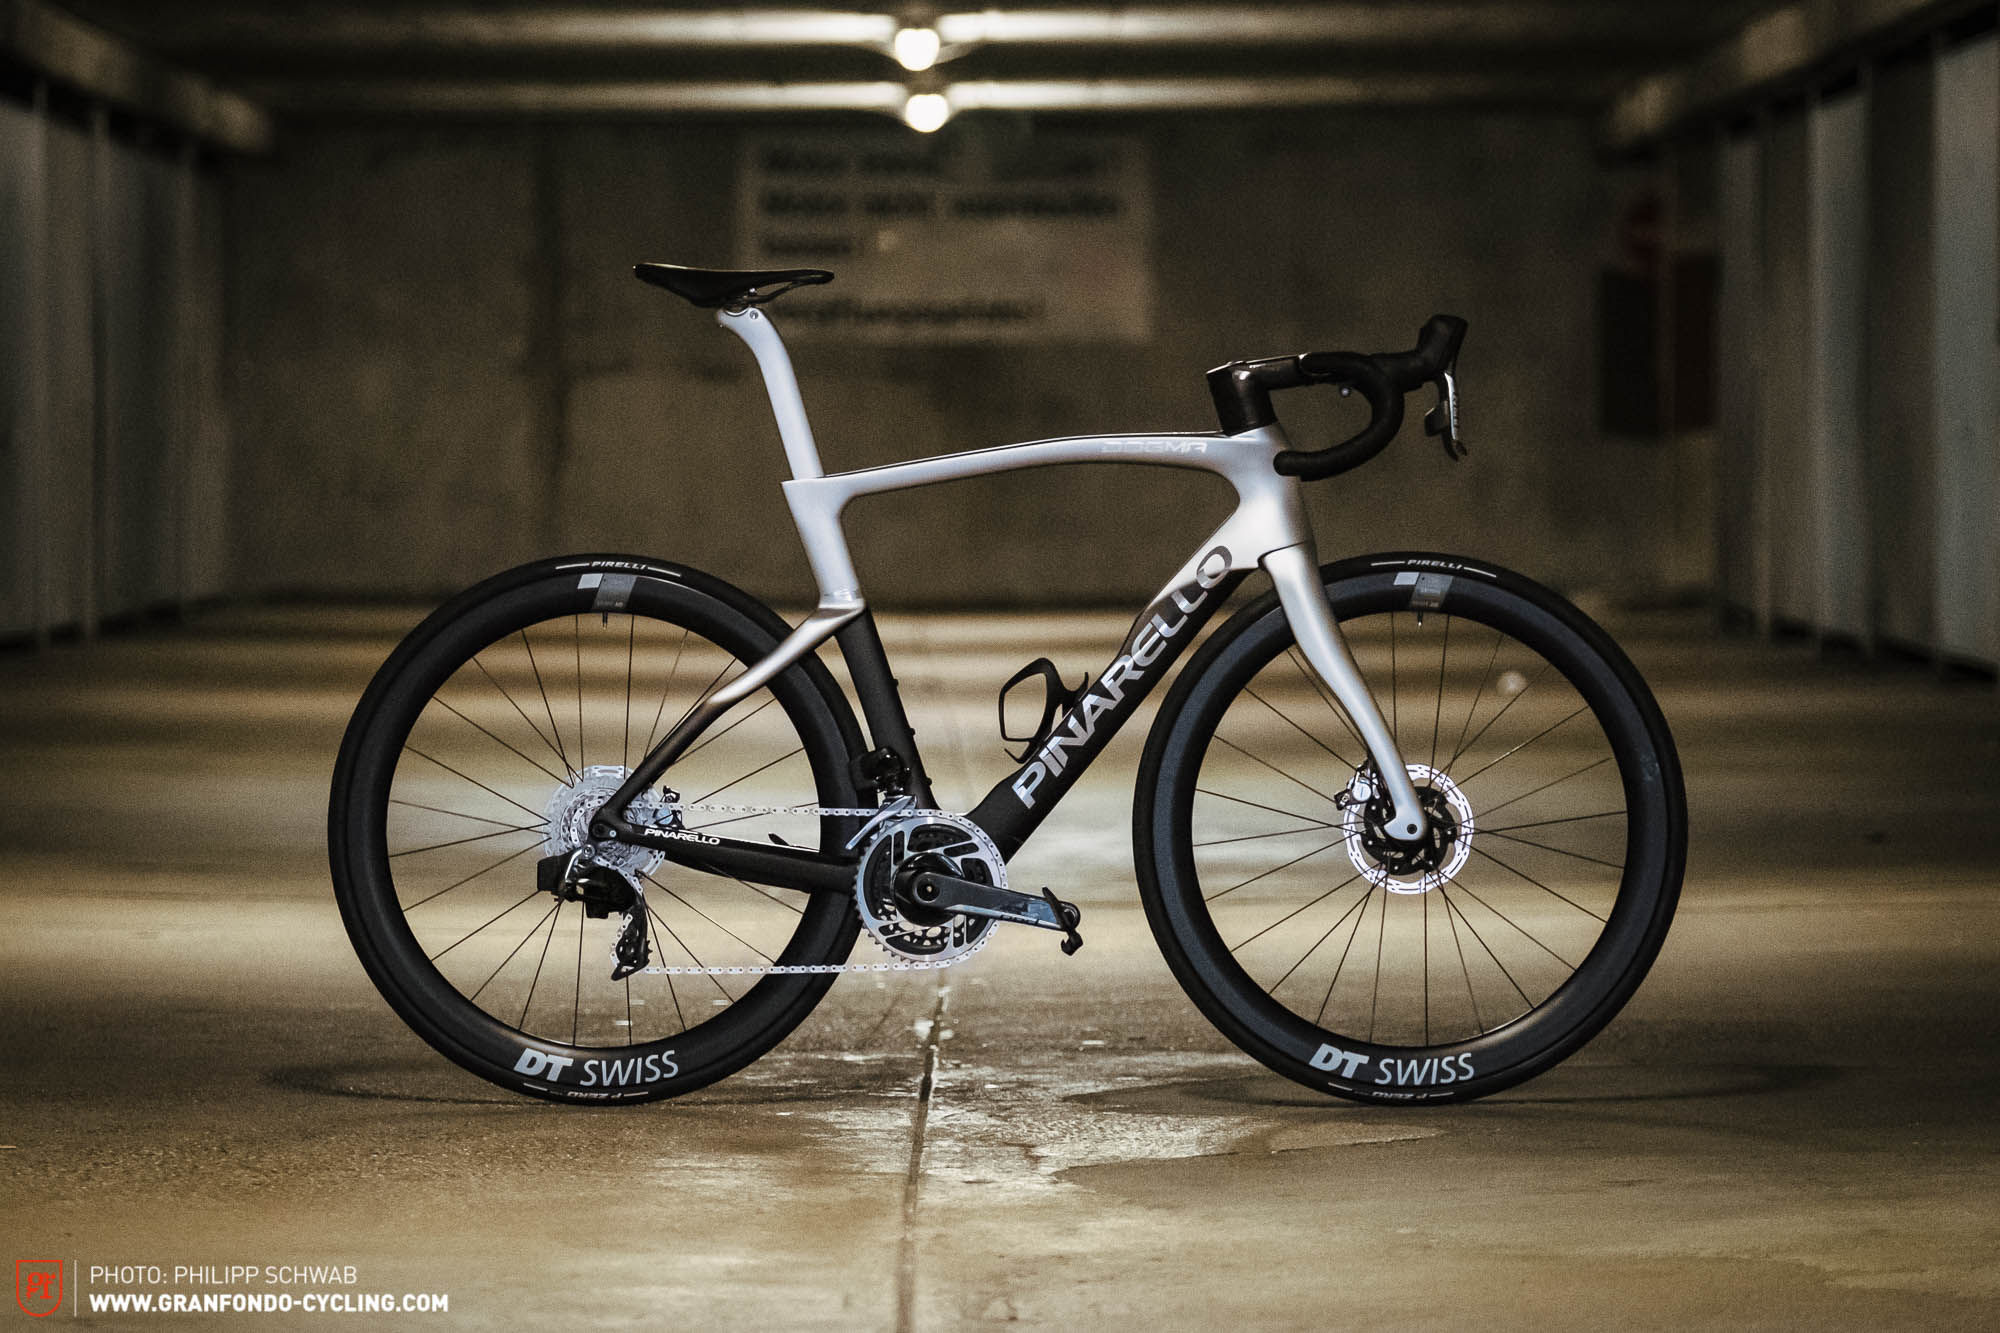
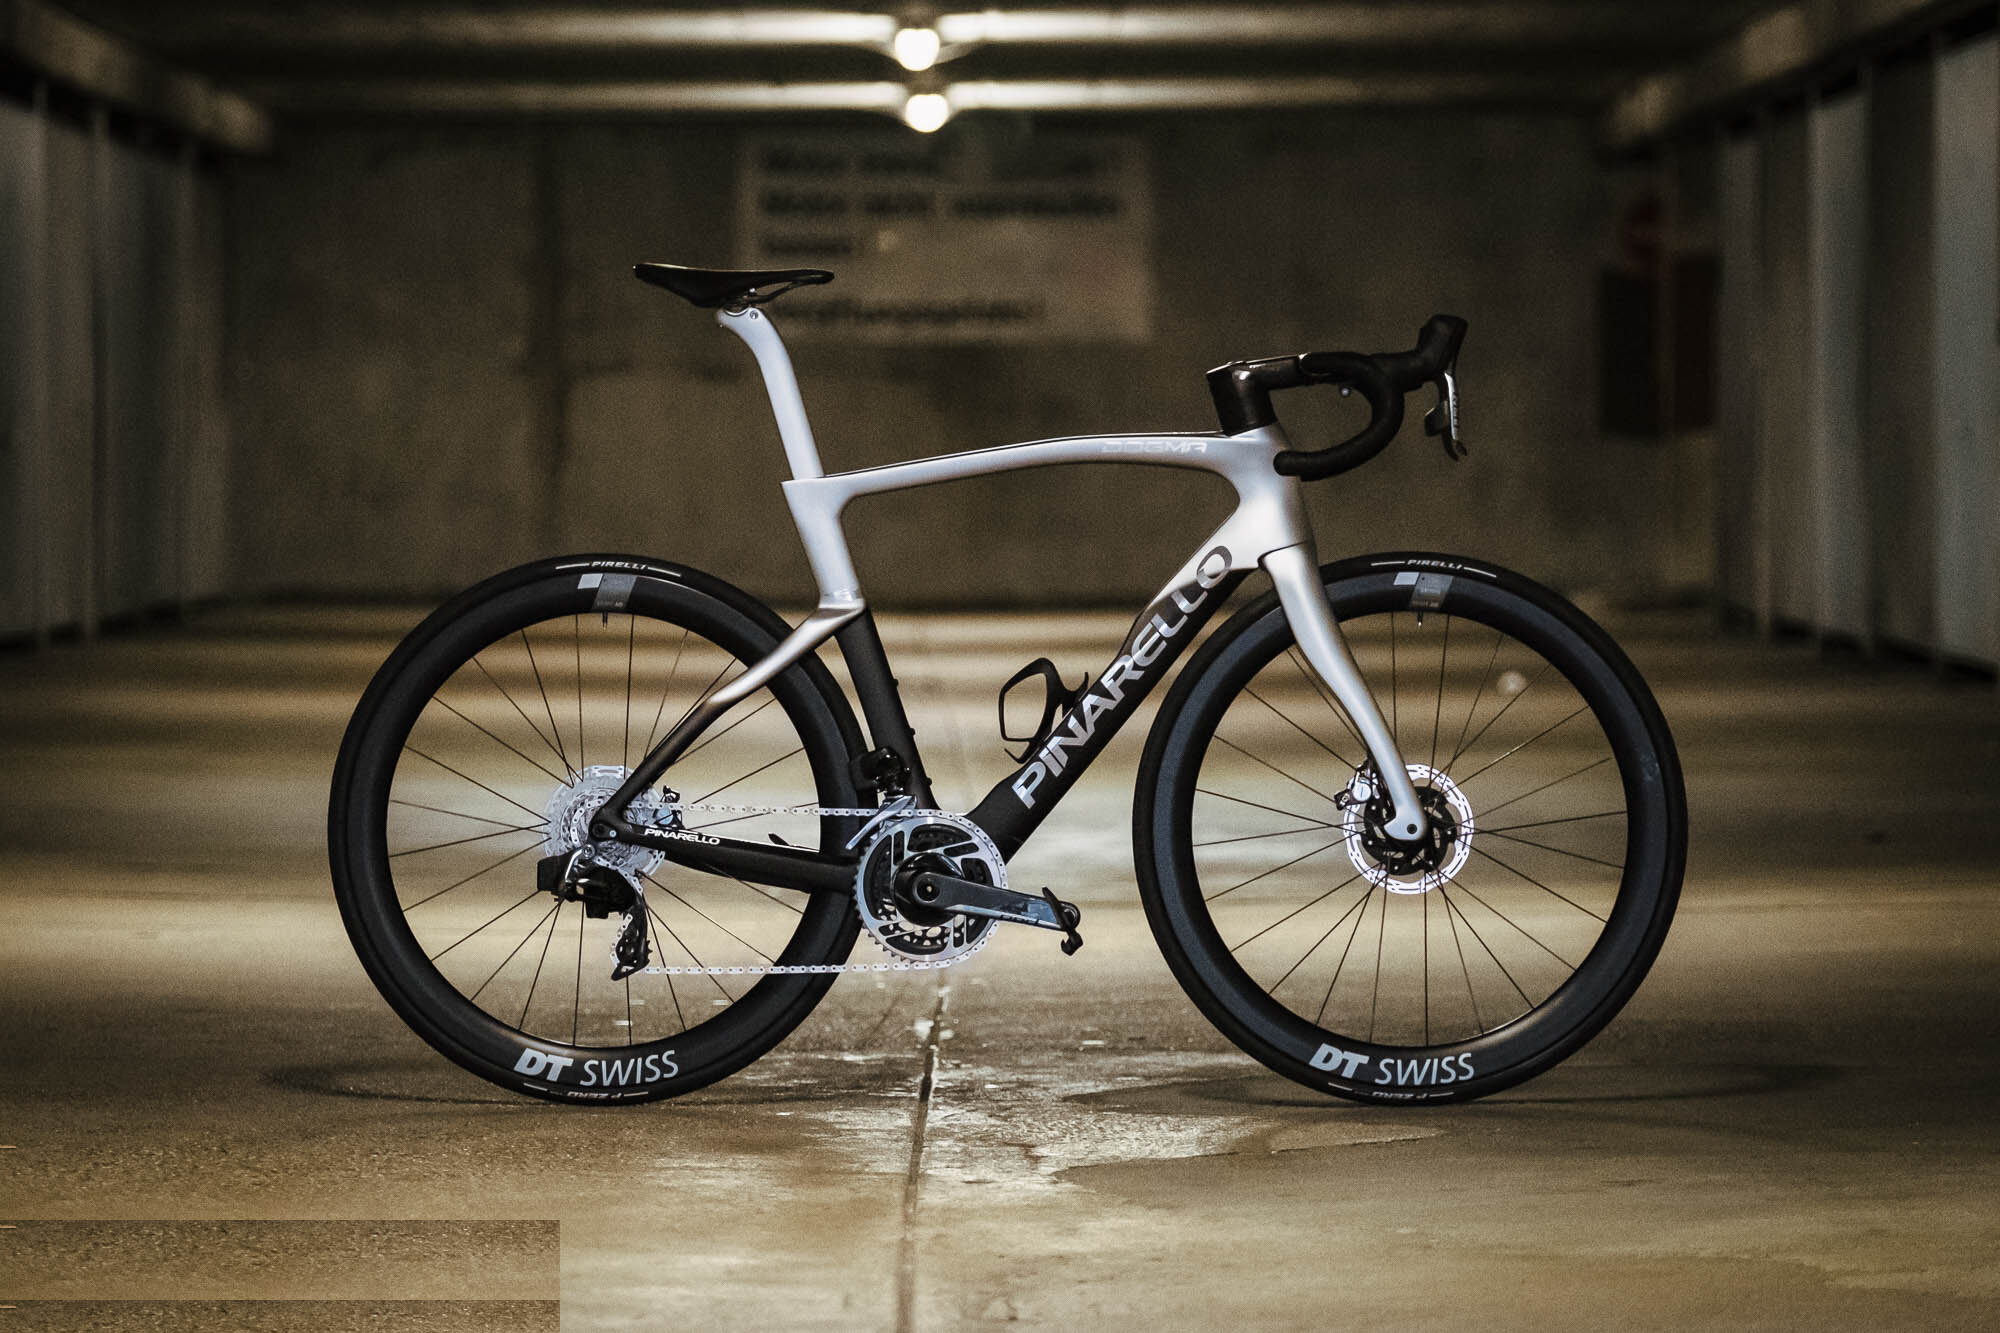
feat(lab): odstranit watermark z hero foto + víc brass detailů
- Hero foto: vymazán GranFondo watermark + atribuce v levém dolním rohu
  (clone přes ImageMagick, vyzkoušený pod hero overlay opacity 65%)
- Brass dividery (tenká linka 48×1px) pod každým sekčním H2: Intro,
  Services, Why, Process, Gallery, FAQ
- Service karty: separátor nad cenou je teď brass (30% opacity) místo
  studeného šedého
- FAQ chevron: emerald → brass když je položka otevřená (jemný state cue)

Cíl: trochu zvednout 'luxe' bez přebytku — bordering Patek detail, ne kasino.

Changed region(s): [[0.0, 0.892, 0.279, 1.0]]

diff --git a/src/components/lab/LabServices.tsx b/src/components/lab/LabServices.tsx
@@ -14,6 +14,7 @@ export default function LabServices() {
           <h2 className="text-3xl md:text-5xl font-black text-[#1a1a2e] tracking-tight leading-[1.1]">
             Šest věcí. Vybíráš jen ty, co dávají smysl tvému kolu.
           </h2>
+          <div className="mt-6 w-12 h-px" style={{ backgroundColor: brassDark }} />
         </div>
 
         <div className="grid md:grid-cols-2 lg:grid-cols-3 gap-5">
@@ -70,9 +71,11 @@ export default function LabServices() {
                   ))}
                 </ul>
 
-                <div className="flex items-center justify-between pt-4 border-t border-[#F0F2FA]">
-                  <span className="text-sm font-black text-[#1a1a2e]">{svc.priceFrom}</span>
-                  <span className="text-[11px] text-[#9AA3C2]">Finální cena po diagnostice</span>
+                <div className="pt-4" style={{ borderTop: `1px solid ${brassDark}30` }}>
+                  <div className="flex items-center justify-between">
+                    <span className="text-sm font-black text-[#1a1a2e]">{svc.priceFrom}</span>
+                    <span className="text-[11px] text-[#9AA3C2]">Finální cena po diagnostice</span>
+                  </div>
                 </div>
               </div>
             </article>

diff --git a/src/components/lab/LabFAQ.tsx b/src/components/lab/LabFAQ.tsx
@@ -18,6 +18,7 @@ export default function LabFAQ() {
           <h2 className="text-3xl md:text-5xl font-black text-[#1a1a2e] tracking-tight leading-[1.1]">
             Co se ptají nejčastěji.
           </h2>
+          <div className="mt-6 w-12 h-px" style={{ backgroundColor: brassDark }} />
         </div>
 
         <div className="space-y-2">
@@ -43,9 +44,9 @@ export default function LabFAQ() {
                     height="18"
                     viewBox="0 0 24 24"
                     fill="none"
-                    stroke="currentColor"
+                    stroke={isOpen ? brassDark : "#1F4937"}
                     strokeWidth={2.5}
-                    className={`text-[#1F4937] shrink-0 transition-transform ${isOpen ? "rotate-180" : ""}`}
+                    className={`shrink-0 transition-all ${isOpen ? "rotate-180" : ""}`}
                   >
                     <path d="M6 9l6 6 6-6" />
                   </svg>

diff --git a/src/components/lab/LabIntro.tsx b/src/components/lab/LabIntro.tsx
@@ -1,4 +1,6 @@
-import { LAB_INTRO } from "@/data/lab";
+import { LAB_BRAND, LAB_INTRO } from "@/data/lab";
+
+const brassDark = LAB_BRAND.brassDark;
 
 export default function LabIntro() {
   return (
@@ -7,7 +9,8 @@ export default function LabIntro() {
         <h2 className="text-3xl md:text-5xl font-black text-[#1a1a2e] tracking-tight max-w-3xl leading-[1.1]">
           {LAB_INTRO.title}
         </h2>
-        <p className="mt-6 text-lg text-[#5A6480] max-w-2xl leading-relaxed">
+        <div className="mt-6 w-12 h-px" style={{ backgroundColor: brassDark }} />
+        <p className="mt-5 text-lg text-[#5A6480] max-w-2xl leading-relaxed">
           {LAB_INTRO.lead}
         </p>
 

diff --git a/src/components/lab/LabGallery.tsx b/src/components/lab/LabGallery.tsx
@@ -13,7 +13,8 @@ export default function LabGallery() {
           <h2 className="text-3xl md:text-5xl font-black text-[#1a1a2e] tracking-tight leading-[1.1]">
             Detaily, na kterých záleží.
           </h2>
-          <p className="mt-4 text-sm text-[#9AA3C2]">
+          <div className="mt-6 w-12 h-px" style={{ backgroundColor: brassDark }} />
+          <p className="mt-5 text-sm text-[#9AA3C2]">
             Ilustrativní snímky. Po prvních realizacích sem nahrajeme reálné fotky z vlastní dílny.
           </p>
         </div>

diff --git a/src/components/lab/LabProcess.tsx b/src/components/lab/LabProcess.tsx
@@ -13,6 +13,7 @@ export default function LabProcess() {
           <h2 className="text-3xl md:text-5xl font-black text-[#1a1a2e] tracking-tight leading-[1.1]">
             Čtyři kroky, žádné překvapení.
           </h2>
+          <div className="mt-6 w-12 h-px" style={{ backgroundColor: brassDark }} />
         </div>
 
         <div className="grid md:grid-cols-4 gap-5">

diff --git a/src/components/lab/LabWhy.tsx b/src/components/lab/LabWhy.tsx
@@ -14,6 +14,7 @@ export default function LabWhy() {
           <h2 className="text-3xl md:text-5xl font-black tracking-tight leading-[1.1]">
             {LAB_WHY.title}
           </h2>
+          <div className="mt-6 w-12 h-px" style={{ backgroundColor: brass }} />
           <p className="mt-5 text-lg text-white/65 leading-relaxed">
             {LAB_WHY.lead}
           </p>
